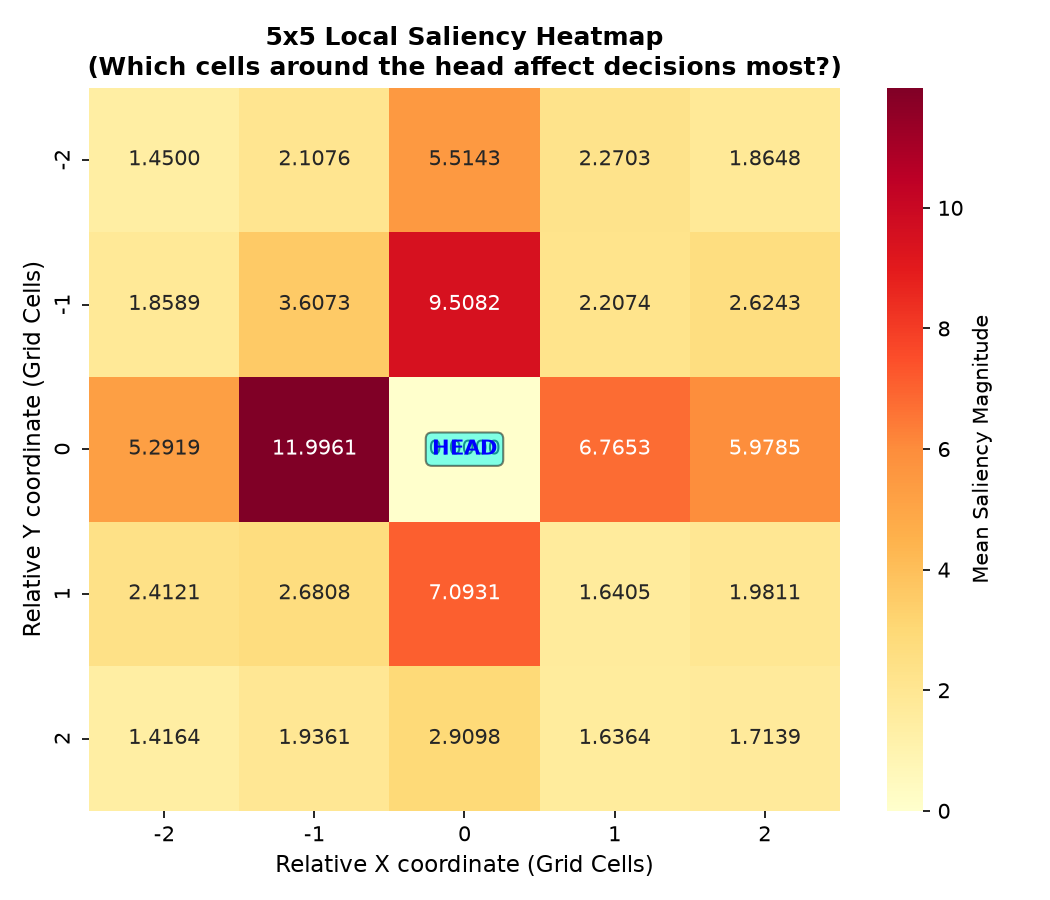
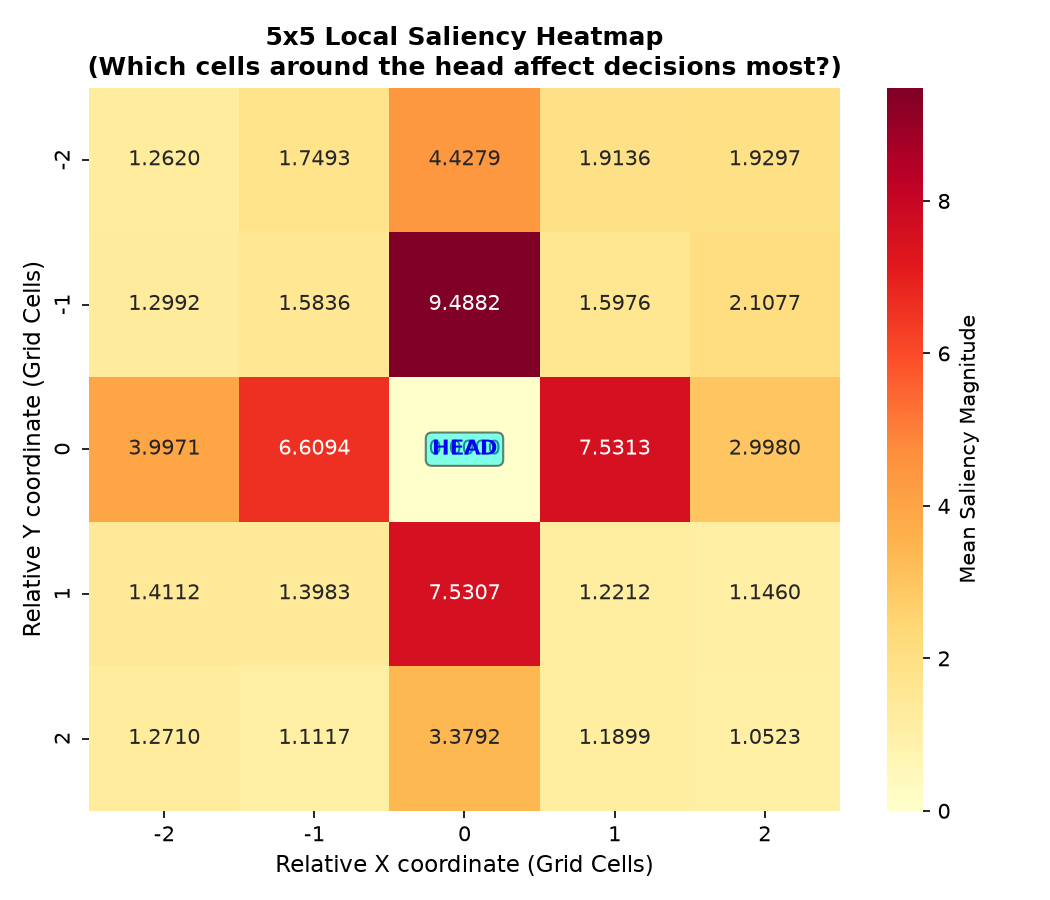
docs: update README files with interactive demo and updated evaluation workflow

diff --git a/README.md b/README.md
@@ -6,9 +6,10 @@ This repository contains a Deep Reinforcement Learning project that trains an AI
 
 - `main.py`: The primary entry point of the project. Run this to start the training.
 - `train.py`: Contains the game simulator (`SnakeGameAI`), the replay buffer memory, the agent setup, and the training loop.
-- `evaluate/`: Folder containing scripts and documentation for evaluating the best model in a new custom environment. See [evaluate/README.md](evaluate/README.md) for results.
+- `demo/`: Contains the interactive Pygame visualization demo (`interactive_demo.py`) with real-time Q-value graphs and manual override. See [demo/README.md](demo/README.md).
+- `evaluate/`: Folder containing scripts and documentation for evaluating the best model in new custom environments and XAI feature analysis. See [evaluate/README.md](evaluate/README.md) for results.
 - `src/models/base_model.py`: Defines the `DQN` neural network model.
-- `experiments/`: Stores the saved model weights (`model.pth`) and the persistent highest score record (`best_score.txt`).
+- `experiments/`: Stores the saved model weights (`model.pth`), curriculum configurations, and high score records.
 
 ---
 
@@ -108,7 +109,13 @@ uv run python main.py
 ```
 A Pygame window will open showing the snake training in real-time. Training progress and best score records will be outputted to your terminal.
 
-### 4. Run Evaluation & XAI Saliency Analysis
+### 4. Run Interactive Demo & Visualizations
+To watch the trained agent play in real time with interactive Q-value dashboards and manual override mode:
+```bash
+uv run python demo/interactive_demo.py
+```
+
+### 5. Run Evaluation & XAI Saliency Analysis
 To evaluate the best model checkpoint (`experiments/model.pth`) in the custom evaluation environments:
 ```bash
 # Standard evaluation
@@ -124,3 +131,4 @@ uv run python evaluate/evaluate_xai.py
 uv run python evaluate/evaluate_two_foods.py
 ```
 The analysis plots will be saved inside the `evaluate/plots/` directory.
+
